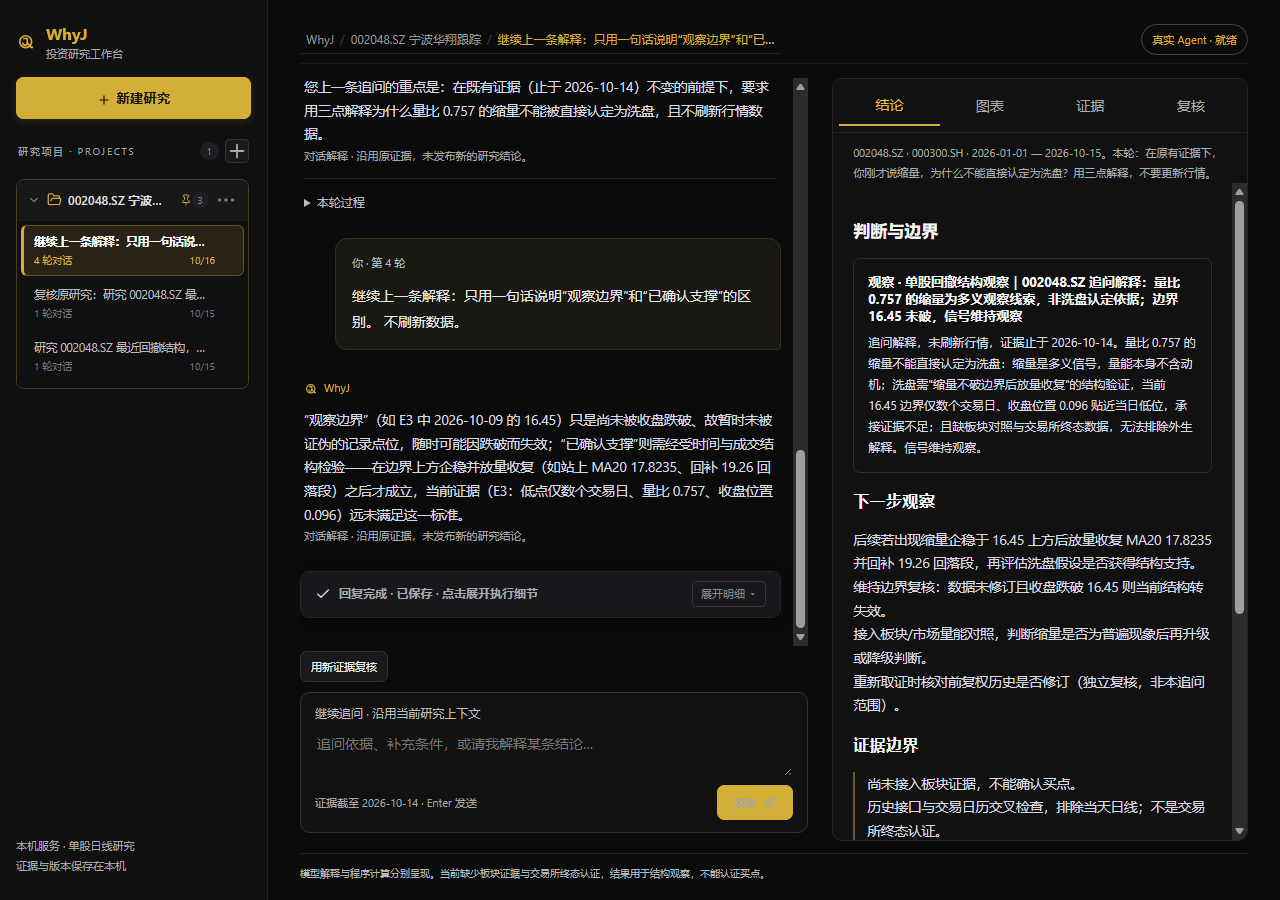
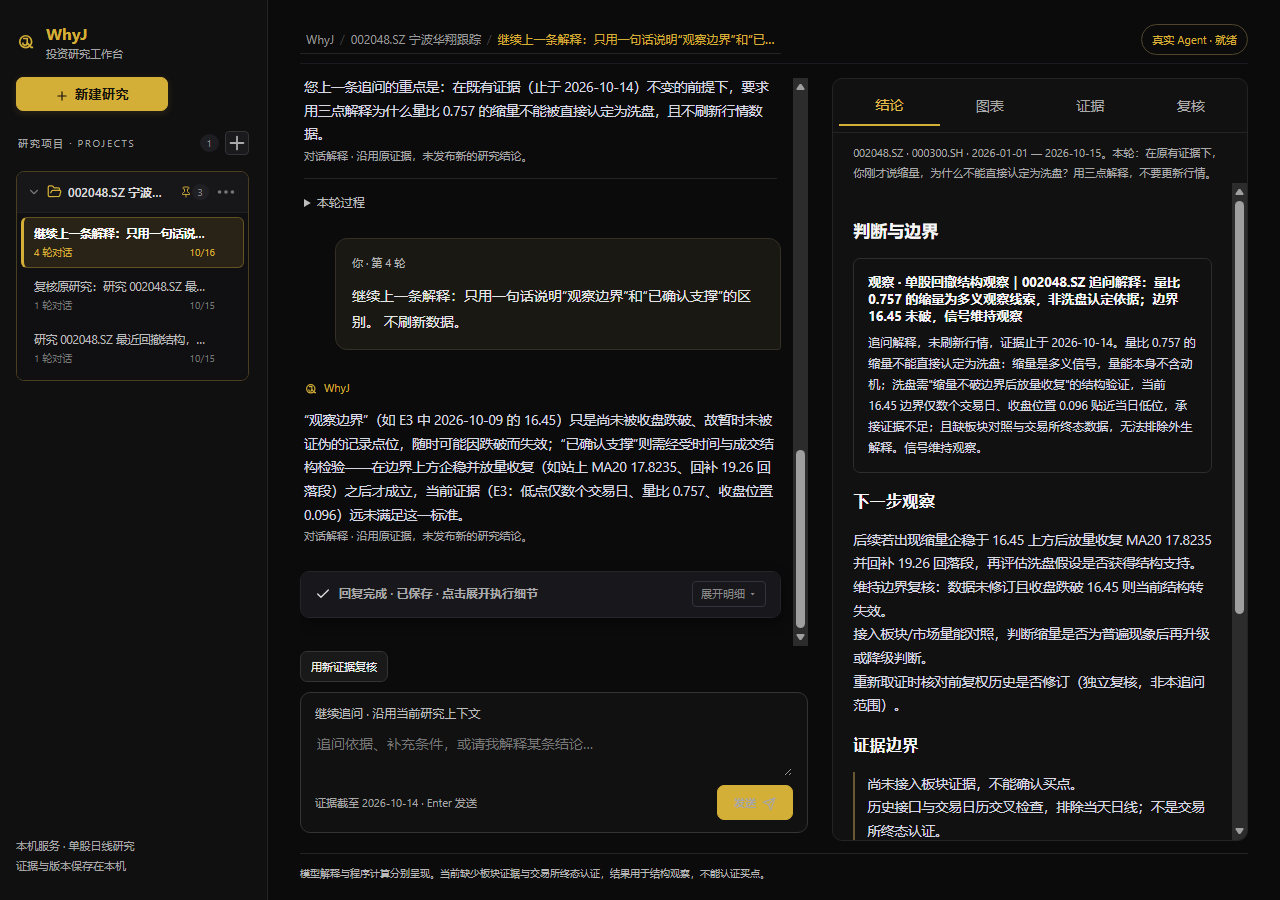
fix(workspace): compact the new-research button in the session sidebar
Review feedback asked for a smaller, less wide session-management button.
`.btn-new-study` was a full-bleed 235x42 control: width 100%, padding 11px 16px.

It now sizes to its content (152px minimum), sits on the sidebar's existing
left edge, and uses 7px vertical padding for a 34px height. Measured at
1600x1000 through computed styles before and after: 235x42 to 152x34, with the
left edge moving from 16px to 16px so the button stays aligned with the brand,
the PROJECTS label and the project card.

The layout is unchanged; only the button box changes. The three captured
screenshots are regenerated from this revision.

Changed region(s): [[0.0, 0.0622, 0.2188, 0.4356]]

diff --git a/src/app/research-workspace/web/style.css b/src/app/research-workspace/web/style.css
@@ -149,8 +149,10 @@ aside footer {
   line-height: 1.8;
 }
 .btn-new-study {
-  width: 100%;
-  padding: 11px 16px;
+  width: fit-content;
+  min-width: 152px;
+  margin: 0;
+  padding: 7px 18px;
   font-size: 13px;
   font-weight: 650;
   letter-spacing: 0.5px;
